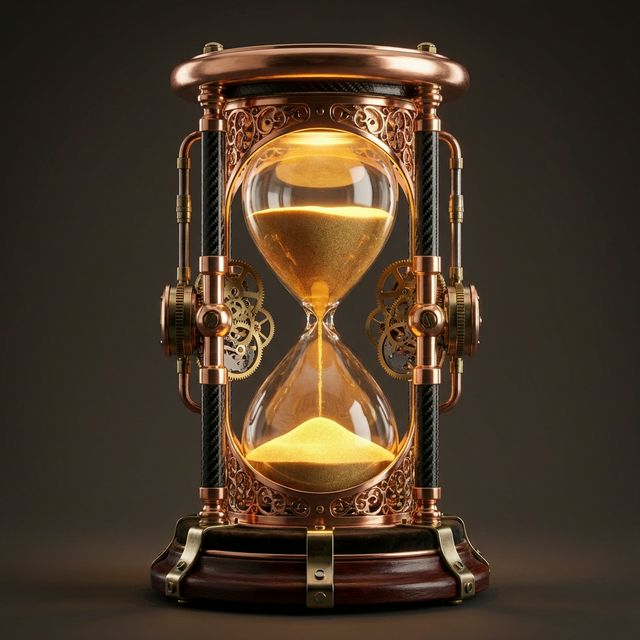
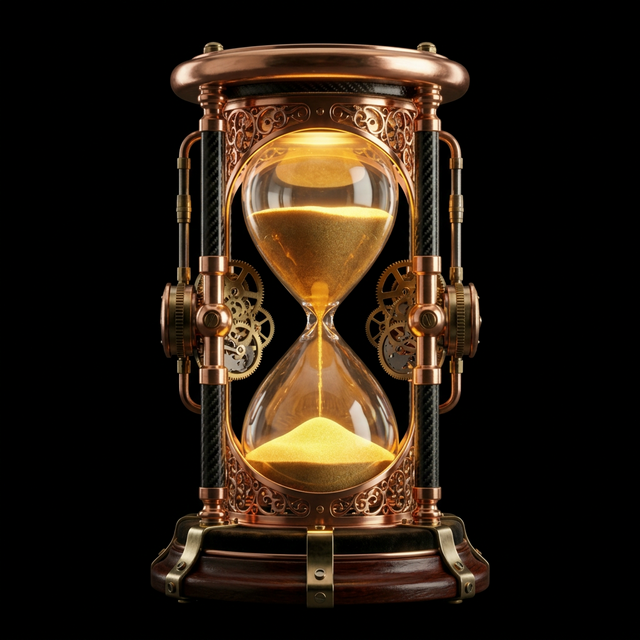
fix: polish video fallback mobile layout and asset blending

diff --git a/src/components/ProjectSection/ProjectCard.tsx b/src/components/ProjectSection/ProjectCard.tsx
@@ -107,41 +107,51 @@ export const ProjectCard: React.FC<ProjectCardProps> = ({ title, description, vi
                 <FaPlay style={{ fontSize: '2rem', color: 'var(--color-gold)', marginLeft: '6px' }} />
               </div>
             ) : (
-              <div style={{
-                position: 'absolute',
-                top: 0,
-                left: 0,
-                width: '100%',
-                height: '100%',
-                background: 'rgba(30, 28, 26, 0.9)',
-                display: 'flex',
-                flexDirection: 'column',
-                alignItems: 'center',
-                justifyContent: 'center',
-                zIndex: 10,
-                padding: '2rem',
-                textAlign: 'center',
-                backdropFilter: 'grayscale(1) blur(4px)',
-                borderBottom: '2px solid var(--color-copper)'
-              }}>
+              <div
+                className="fallback-overlay"
+                style={{
+                  position: 'absolute',
+                  top: 0,
+                  left: 0,
+                  width: '100%',
+                  height: '100%',
+                  background: '#1e1c1a',
+                  display: 'flex',
+                  flexDirection: 'column',
+                  alignItems: 'center',
+                  justifyContent: 'center',
+                  zIndex: 10,
+                  padding: '2rem 1.5rem 3rem 1.5rem',
+                  textAlign: 'center',
+                  backdropFilter: 'grayscale(1) blur(4px)',
+                  borderBottom: '2px solid var(--color-copper)'
+                }}
+              >
                 <img
                   src="/assets/icon-hourglass.png"
                   alt=""
+                  className="fallback-hourglass"
                   style={{
-                    width: '120px',
-                    height: '120px',
-                    marginBottom: '1.5rem',
-                    animation: 'pulse-glow 2s ease-in-out infinite',
-                    filter: 'drop-shadow(0 0 10px var(--color-copper))'
+                    width: 'clamp(80px, 20vw, 140px)',
+                    height: 'clamp(80px, 20vw, 140px)',
+                    marginBottom: '1rem',
+                    animation: 'spin 4s linear infinite, pulse-glow 2s ease-in-out infinite',
+                    objectFit: 'contain',
+                    mixBlendMode: 'screen'
                   }}
                 />
-                <h4 style={{
-                  color: 'var(--color-gold)',
-                  fontFamily: 'var(--font-heading)',
-                  fontSize: '1.2rem',
-                  textTransform: 'uppercase',
-                  marginBottom: '0.5rem'
-                }}>
+                <h4
+                  className="fallback-text"
+                  style={{
+                    color: 'var(--color-gold)',
+                    fontFamily: 'var(--font-heading)',
+                    fontSize: 'clamp(0.9rem, 4.5vw, 1.25rem)',
+                    textTransform: 'uppercase',
+                    marginBottom: '1.5rem',
+                    padding: '0 1.5rem',
+                    lineHeight: '1.4'
+                  }}
+                >
                   {t('projects.video_coming_soon')}
                 </h4>
                 <div style={{
@@ -153,20 +163,22 @@ export const ProjectCard: React.FC<ProjectCardProps> = ({ title, description, vi
               </div>
             )}
 
-            <div style={{
-              position: 'absolute',
-              bottom: '1rem',
-              right: '1rem',
-              background: 'rgba(0,0,0,0.8)',
-              padding: '0.3rem 0.8rem',
-              borderRadius: '4px',
-              color: '#fff',
-              fontSize: '0.9rem',
-              fontFamily: 'var(--font-digital)',
-              zIndex: 11
-            }}>
-              {t('projects.click_hint')}
-            </div>
+            {!showFallback && (
+              <div style={{
+                position: 'absolute',
+                bottom: '1rem',
+                right: '1rem',
+                background: 'rgba(0,0,0,0.8)',
+                padding: '0.3rem 0.8rem',
+                borderRadius: '4px',
+                color: '#fff',
+                fontSize: '0.9rem',
+                fontFamily: 'var(--font-digital)',
+                zIndex: 11
+              }}>
+                {t('projects.click_hint')}
+              </div>
+            )}
           </button>
         ) : (
           <iframe

diff --git a/src/index.css b/src/index.css
@@ -226,3 +226,32 @@ details summary:focus-visible {
     filter: drop-shadow(0 0 5px var(--color-copper-dim));
   }
 }
+
+@keyframes spin {
+  from {
+    transform: rotate(0deg);
+  }
+
+  to {
+    transform: rotate(360deg);
+  }
+}
+
+/* 📱 Mobile Adjustments for Video Fallback */
+@media (max-width: 600px) {
+  .fallback-overlay {
+    padding: 1rem !important;
+  }
+
+  .fallback-hourglass {
+    width: 60px !important;
+    height: 60px !important;
+    margin-bottom: 0.5rem !important;
+  }
+
+  .fallback-text {
+    font-size: 0.85rem !important;
+    padding: 0 0.5rem !important;
+    line-height: 1.2 !important;
+  }
+}
